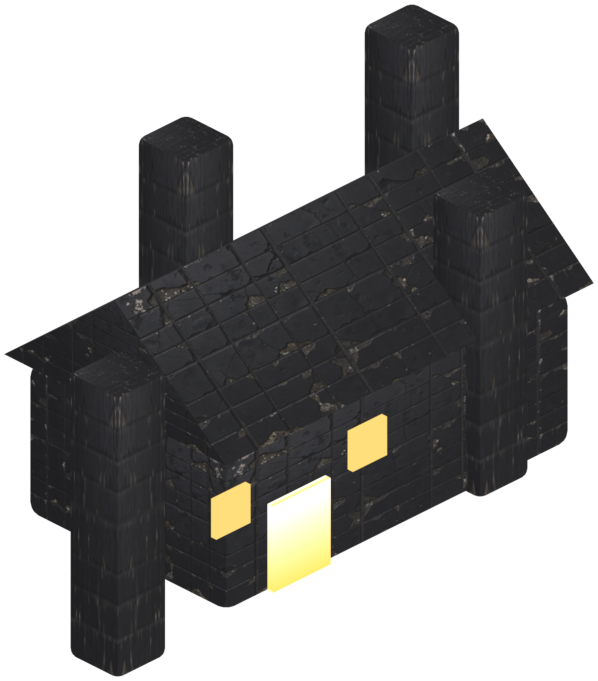
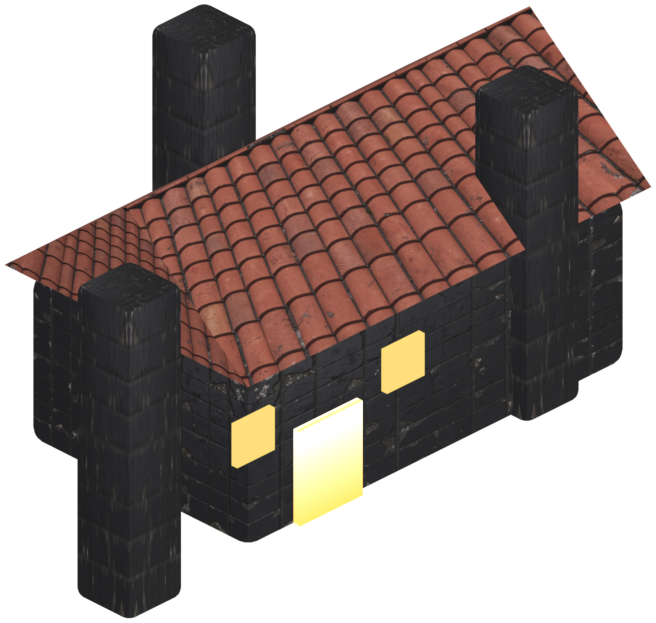
feat(world122): 仓鼠兵营屋顶换红瓦片——roof_tex 生图红瓦 + 屋顶 prism 材质 roof
Condensed 4 adjacent commits from the original history:
- e9b63d8b fix(companion)+test(warrior): 仓鼠战士攻击再进入重播完整起步——walk 分支重置 hamsterAtk 标记（attack→walk→attack 仍播 1~24 帧）；CDP 探针加 send 超时/页面自愈/再攻击两段式断言（实机 21/21）
- 6985e8cb fix(companion): 仓鼠战士攻击动画与 2s 间隔对齐——起步 24 帧@12fps=2.0s、循环 19 帧@9.5fps=2.0s，两段周期均等于攻击间隔（挥砍与伤害节拍同步，CDP 实测起步 2041ms 切循环）；契约测试 34/34 + 实机 22/22
- 0aa0c0d8 fix(world122): 仓鼠兵营删独立柱——44.8° 布局后右塔投影成独立高柱，三塔+主体更稳
- b1d2e781 feat(world122): 仓鼠兵营屋顶换红瓦片——roof_tex 生图红瓦 + 屋顶 prism 材质 roof

diff --git a/src/phaser/scenes/GameScene.js b/src/phaser/scenes/GameScene.js
@@ -690,6 +690,9 @@ export class GameScene extends Scene {
                     // 12 帧循环（无 startFrames 走简单路径）；仓鼠矿工保留起步全播+循环
                     // 两段式（配置带 startFrames 时走两段）。
                     sprite.setData('lunaRunning', false);
+                    // 离开攻击状态必须重置战士攻击标记：attack→walk→attack 再次进入攻击时
+                    // 仍播完整 1~24 帧起步（2026-08-16 用户口径：从其他状态进攻击播完整循环）
+                    sprite.setData('hamsterAtk', false);
                     const walkStartKey = `${walkKey}_start`;
                     if (anims.walk.startFrames && this.anims.exists(walkStartKey)) {
                         if (!sprite.getData('hamsterWalk')) {

diff --git a/CHANGELOG.md b/CHANGELOG.md
@@ -1,4 +1,19 @@
 # 变更日志
+### 对话：仓鼠兵营屋顶换红瓦片（2026-08-16）
+- 需求：屋顶用红瓦片贴图替换（原为黑砖同款）。
+- 贴图：`comfyui-gen.py --host 192.168.3.142 --model flux2-klein-4b-walltex` 红瓦
+  （seed 12202，1024×656，RGB 151/87/70 红主色 / 白边 0% / 格栅峰强）。
+- 接入：spec 新增 `roof_tex = hamster_barracks_roof_tex.png`，屋顶 prism 材质 `wall → roof`；
+  墙身/塔台保持黑砖 `wall`。重渲入库 `assets/terrain/hamster_barracks.png`（656×623，
+  顶部/中部红瓦 30%+、底部黑砖 0%）。
+
+### 对话：仓鼠兵营删独立柱——44.8° 布局的后右塔投影成独立高柱（2026-08-16）
+- 用户复测：渲染里有一根"独立在外"的柱子。像素定位 = 后右塔（local 153.5,68，
+  world x≈+56）在屏幕右上从 y=5 贯穿到 y=537，与主体分离。
+- 修复：删除该塔台图元 → 三塔（前左/前右/后左）+ 主体；重新渲染入库
+  `assets/terrain/hamster_barracks.png`（656×623）。44.8° 布局注意：后右角塔
+  投影会独立矗立在建筑右上，视觉像多余柱子，可省。
+
 ### 对话：仓鼠兵营建模——黑砖方块主体 + 四角细长塔台（2026-08-16，角度 44.8° 修正）
 - **需求**：参照仓鼠小屋建模经验，建「仓鼠兵营」（方块主体 + 周围圆柱/方块细长塔台，同角度），
   先建模再走生图管线出黑砖贴图渲染。

diff --git a/.agents/skills/game-dev-lessons/SKILL.md b/.agents/skills/game-dev-lessons/SKILL.md
@@ -902,6 +902,9 @@ this.ai = config.ai || {};
 - 等距 30° 投影下物体屏幕高度 ≈ `-(y·cos30 + z·sin30)`：**z 更高不代表屏幕上更高**——
   y 越靠前（负）投影越低。前塔尖顶 z 比屋脊高 80+ 仍被屋顶前坡遮挡（仓鼠兵营实测）。
 - 结论：塔台/装饰件**做平顶最稳**；要尖顶就放在 y≥0（屋脊后方）才能露出。
+- **44.8° 布局的"多余柱子"陷阱**：后右角塔（local 153.5,68 → world x≈+56）在屏幕上
+  会独立矗立在建筑右上（从顶贯穿到中段，与主体分离），视觉像多出来的柱子——仓鼠兵营
+  已删该塔。角塔数量按剪影验收，别默认四角全上。
 - 建模复用：仓鼠小屋同视角 spec 模板（elevation 30 / azimuth 0 / resolution 1024 /
   bottom_y 880 / max_width_frac 0.8）；黑砖走 klein-walltex LoRA
   （`--host 192.168.3.142 --model flux2-klein-4b-walltex`），验收看暗色/白边 0%/砖格 FFT 峰。
